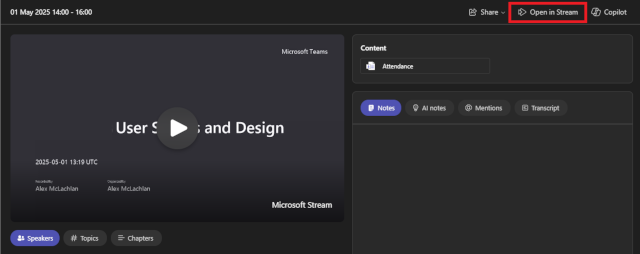
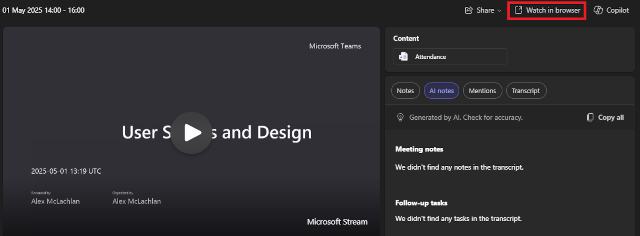
Updates to 2 blog posts (#2144)
* v1 of Produce Dataverse Table Schema Documentation from Metadata Spreadsheet

* Remove double space in title

* PNP changed to PnP in last paragraph

* Thumbnail added

* Thumbnail added to metadata

* Changed section headers to be H2

* Changed instructions to be in bold

* Instructions changed to be in bold

* Further 'cell' instruction changed to bold

* Update index.md

minor formatting changes

* Initial commit

* Adding flow details

* Adding more content

* More content and images

* Added outputs

* DevOps and acknowledgement and more images

* Added table of contents, solution details, images

* v1 for sending for review

* Last changes

* Making 3 minor content changes

* Update index.md

* Initial commit

* Adding Power Automate Management comment

* Added more on the Power Automate Management connector

* Correcting two typos

* Adding thumbnail

* Updated thumbnail

* Added thumbnail to metadata

* Added Power Automate tag

* Correcting typo, minor improvements, update date

* Added HTML content and alternative flow

* Added horrizonal line as section break

* Initial commit

* Added thumbnail and content changes

* Update index.md

updated date to bump up the article

* Commit for short blog post

* UPdated initial paragraph

* Updated publish date/time

* Improving choices post and adding icons post

* Setting date for draft post to 2025

* Setting date to 6 Feb

* Moving first post date to 7Feb

* Update for 1st post, making 2nd in year in future
[…]

diff --git a/content/post/traceability-between-workshops-and-user-stories/index.md b/content/post/traceability-between-workshops-and-user-stories/index.md
@@ -25,6 +25,19 @@ Link workshop transcripts to User Stories by:
 
 ---
 
+## Contents
+
+- [TL;DR](#tldr)
+- [Contents](#contents)
+- [Introduction](#introduction)
+- [Step 1: Record the Workshop, then Annotate in Stream](#step-1-record-the-workshop-then-annotate-in-stream)
+- [Step 2: Add New User Stories in DevOps](#step-2-add-new-user-stories-in-devops)
+- [Step 3: Create DevOps Wiki Page](#step-3-create-devops-wiki-page)
+- [Tracing from the User Story to the Recording](#tracing-from-the-user-story-to-the-recording)
+- [Postscript](#postscript)
+
+---
+
 ## Introduction
 
 This post provides guidance on how to achieve effective traceability between workshop recordings and the corresponding Azure DevOps User Stories. This approach enables users to reference the exact part of a workshop where a user story was discussed, facilitating clarification if needed at a later time.
@@ -33,11 +46,11 @@ This post assumes Teams is used for workshops and Azure DevOps for backlog manag
 
 ---
 
-## Step 1: Record and Annotate in Stream
+## Step 1: Record the Workshop, then Annotate in Stream
 
 Record the workshop (preferably with transcription turned on, even better with access to Copilot).
 
-Once the recording has been saved, move from Teams to Stream.
+Once the recording has been saved, move from Teams to Stream using the 'Watch in browser' button.
 
 ![Open recording in Stream](images/open-in-stream.png)
 
@@ -90,3 +103,23 @@ This then allows you to trace back from the User Story, via the Wiki page, to th
 ![User story, showing link to the Wiki page](images/user-story-link.png)
 
 NOTE: if you have Copilot available in Teams or Stream, the reviewed and edited version of the summary can be used as well.
+
+---
+
+## Postscript
+
+Following the initial posting of this, I had the following conversation on LinkedIn with Microsoft MVP [Hamish Shield](https://www.linkedin.com/in/hamishsheild/):
+
+Hamish:
+
+    Alex McLachlan nice one. I don’t do this as it seems like a lot of work! But I can see how it would be super helpful. I often refer back to workshop recordings. One thing I have been thinking about is how might an AI agent do something like this for us…
+
+Alex:
+
+    Hamish Sheild that's a very valid point / comment about agents. There are three level to consider here.
+
+    Firstly, your comment about it being a lot of work is very true, but I find I get 2-3 times more value from listening to the workshop recording than just going on memory / notes / Miro board. This enables the resulting user stories to be more complete and more accurate, reducing bugs and re-work. To some extent whether this is appropriate on a project depends on the availability of the SMEs (but have you ever worked on a project where they are as available as you'd like?)
+
+    Secondly, you could use Copilot's summary, together with a prompt along the lines of "extract the requirements from this workshop and express them in the form AS A ... giving links to the start of where they are mentioned". This could be added as wiki content and (after careful review) add them to DevOps.
+
+    Lastly, it would be possible to write an agent to do the second option and add the user stories to DevOps for review there. Personally, I wouldn't currently go for this option at the moment given the level of hallucination in gen AI and the lack of it's ability to have a memory model of what the system is needing to do and context of the rest of the backlog.

diff --git a/content/post/preparing-for-dark-mode-model-driven-app-icons/index.md b/content/post/preparing-for-dark-mode-model-driven-app-icons/index.md
@@ -14,6 +14,10 @@ tags: [Power Apps]
 type: "regular"
 ---
 
+## UPDATE
+
+Although the content below is still valid, there's a better, and easier way of doing it: [Preparing for Model-Driven Apps Dark Mode Icons - Improved](https://pnp.github.io/blog/post/preparing-for-dark-mode-model-driven-app-icons-improved/).
+
 ## Dark Mode
 
 Dark mode has become increasingly popular in software applications, providing a sleek and eye-friendly alternative to the traditional light theme. While it’s not officially available for model-driven apps, you can experiment with it by adding a simple URL flag. In this post, we’ll delve into the impact of dark mode on icons in model-driven apps.
